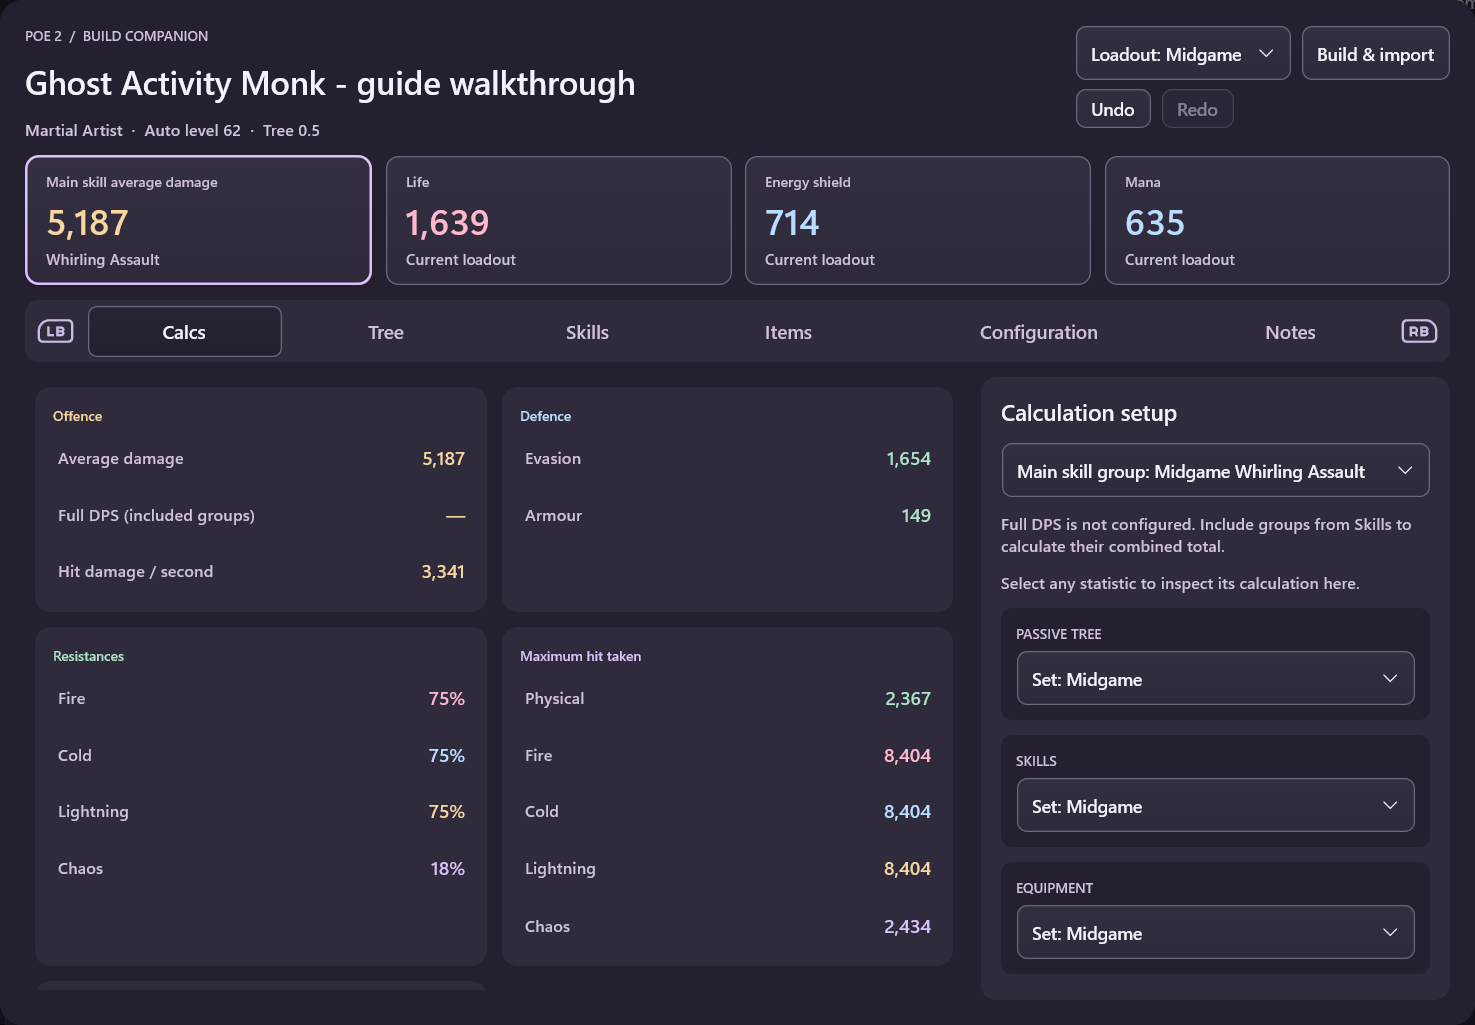
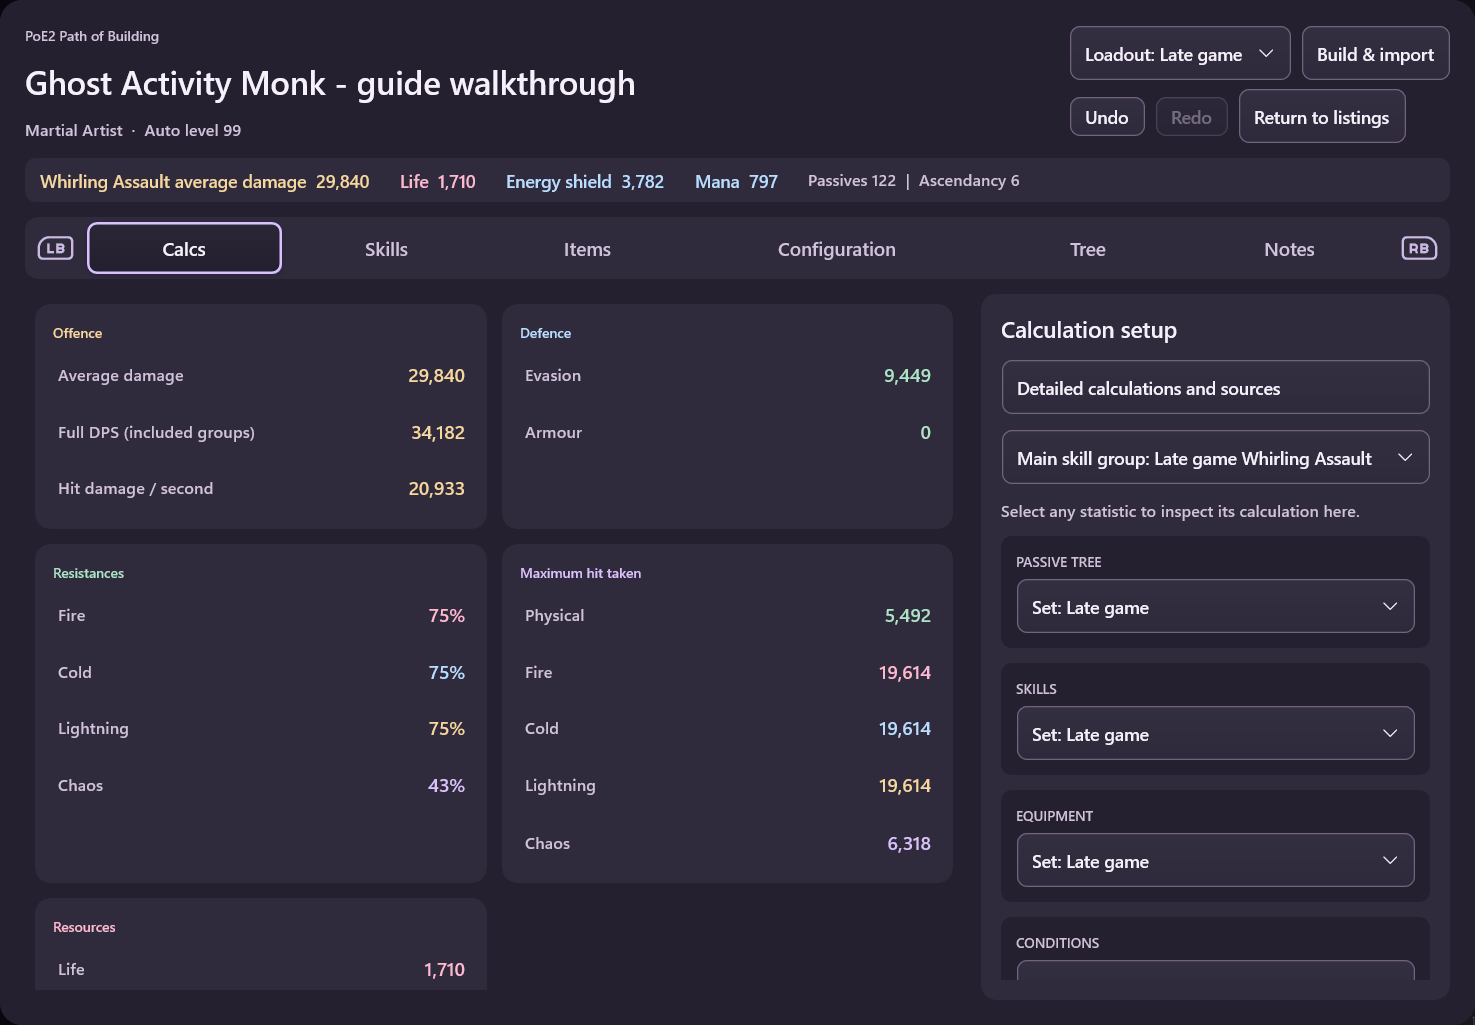
docs(pob): refresh workflow gallery and upstream credits

diff --git a/samples/PobCompanion/README.md b/samples/PobCompanion/README.md
@@ -4,12 +4,31 @@ Two controller-first widgets share one implementation and run pinned Path of Bui
 
 ## Screenshots
 
-Native WidgetRail captures in Velvet Dusk, using midgame and late-game setups from [Ghost Activity's Martial Artist guide](https://pobb.in/ttCJAV3WX9bn). These are workflow examples, not current-league build recommendations. The PNG files in [screenshots](screenshots/) are also available for the marketplace listing.
+Native WidgetRail captures from 17 October 2026 in Velvet Dusk. The PoE2 planning example uses the late-game setup from [Ghost Activity's Martial Artist guide](https://pobb.in/ttCJAV3WX9bn). These are workflow examples, not current-league build recommendations. See the [screenshot index](screenshots/README.md) for captions, capture details and marketplace reuse, and [credits](#credits) for the upstream projects and artwork.
 
+**Calculations and loadouts.** Inspect damage, defences and calculation context without leaving the build.
 ![Calculations and setup](screenshots/calculations.png)
+
+**Skill groups.** The main group is pinned first; its gems, support gems and Full DPS inclusion remain editable.
 ![Skill groups and gem editing](screenshots/skills.png)
+
+**Passive tree.** Inspect an allocated node, its modifiers and weapon-set membership before previewing a change.
 ![Passive tree and node details](screenshots/tree.png)
+
+**PoE1 Timeless Jewels.** Search seeds for a socket using PoB's modifier weights. This synthetic planning example demonstrates the finder, not a recommended character build.
+![PoE1 Timeless Jewel finder and scored seeds](screenshots/poe1-timeless.png)
+
+**Configuration.** Browse relevant settings and enable their upstream explanations.
 ![Configuration sections](screenshots/configuration.png)
+
+**Builds and import.** Website shortcuts sit beside the shared browser preference; pob.cool's controller limitation is stated before opening it.
+![Build import and browser preference](screenshots/import.png)
+
+**Compare while browsing.** The official listing stays beside PoB's calculated gains and losses. The equipment target is explicit; comparing does not equip or buy the item.
+![Trade listing beside its PoB comparison](screenshots/trade-comparison.png)
+
+**Rank a batch.** The shortlist identifies the target, weights, limit and order. Unsupported items stay visible in the skipped list. These historical listings and prices are examples, not purchase recommendations.
+![Ranked trade listings and explicit skipped-item reasons](screenshots/trade-ranking.png)
 
 ## Using a build
 
@@ -109,6 +128,8 @@ The page adapter observes only the declared trade-item JSON responses requested 
 
 General website links use a preference shared by both widgets: Windows' default browser, or a web session in a widget modal. Trade always uses the overlay so listings and comparisons stay together. The modal fills most of the widget without exceeding its bounds. Closing it returns to the build; **Return to website** reopens the retained trade session. Each widget has its own persistent website profile, so logins survive session disposal and overlay restart without sharing the Browser widget's cookies. Existing widget idle unloading also releases its web sessions. Account import through GGG OAuth remains unavailable without an approved application identity.
 
+Choose **Open websites in** beside the poe.ninja and pob.cool shortcuts in Build & import. pob.cool requires a mouse and keyboard. After copying a build code, return to **Paste build from clipboard**. The shared on-screen keyboard also has a Paste key, including for password entry; password text is masked by default.
+
 **Export to PoE2** uses upstream's `.build` serializer for the selected tree, skills and equipment, or exports each linked loadout to its own file. The default destination is Windows' Documents folder under `My Games/Path of Exile 2/BuildPlanner`; the destination is editable. Existing files are preserved. These files provide in-game recommendations rather than equipping items or allocating passives. PoE1 retains the ordinary XML and share-code exports.
 
 The six categorical color roles follow the selected WidgetRail theme; labels and geometry also convey meaning. The tree consumes the host's packaged-page theme projection, including high contrast. Remote websites receive no theme injection.
@@ -141,4 +162,12 @@ Use `--loadouts-only` with a linked-loadout fixture to check independent copies,
 
 The weekly/manual `pob-engine-candidates` workflow resolves an exact upstream revision (PoE1 stable and PoE2 beta by default), builds the pinned Lua runtime, and runs real-engine checks before producing a candidate package. Failed checks prevent packaging; structured results, logs and binlogs are retained for diagnosis. Candidate locks do not replace the repository lock or the installed engine. The workflow does not publish releases automatically: review the results, inspect both widgets, and promote a tested package deliberately. The bridge adapter is the compatibility boundary; game calculations remain upstream.
 
-Each package includes the applicable upstream PoB license, LuaJIT copyright and lua-utf8 license. Fixtures used during development are not bundled as sample builds. Path of Building Community and Path of Exile are separate projects; these widgets are not affiliated with their maintainers or Grinding Gear Games.
+## Credits
+
+- **Path of Building Community contributors**, building on the original Path of Building by **Openarl / David Gowor**: the [PoE1 engine](https://github.com/PathOfBuildingCommunity/PathOfBuilding) and [PoE2 engine](https://github.com/PathOfBuildingCommunity/PathOfBuilding-PoE2) supply calculations, game rules, modifier parsing, trade-query generation and tree-editing tools. Their source revisions are pinned in [engine-lock.json](engine-lock.json); each package retains the upstream license and third-party notices.
+- **Grinding Gear Games**: Path of Exile and Path of Exile 2, their game data and artwork, the official trade website, and the public Currency Exchange history used by PoB. Game artwork and website imagery in these screenshots are not original WidgetRail artwork and are not covered by WidgetRail's code license.
+- **Ghost Activity**: the [Martial Artist guide and public PoB build](https://pobb.in/ttCJAV3WX9bn) used for the PoE2 walkthrough and planning screenshots. The widget demonstrates the imported build; it does not claim authorship of the build or recommend its historical gear for the current league.
+- **LuaJIT**, by Mike Pall and contributors; **lua-utf8**, by Xavier Wang and contributors; and **zlib**, by Jean-loup Gailly and Mark Adler. Packages include `LuaJIT-COPYRIGHT`, `LuaUTF8-LICENSE`, and [zlib-LICENSE.txt](licenses/zlib-LICENSE.txt), alongside `PoB-LICENSE.md`.
+- **[poe.ninja](https://poe.ninja/), [pob.cool](https://pob.cool/) and [pobb.in](https://pobb.in/)** provide the independent build-browsing, browser-planning and sharing services linked from the widget. Their website interfaces and services remain their own.
+
+Fixtures used during development are not bundled as sample builds. WidgetRail's companion UI and adapters are separate from these projects; no affiliation or endorsement by their maintainers or Grinding Gear Games is implied.

diff --git a/samples/PobCompanion/screenshots/README.md b/samples/PobCompanion/screenshots/README.md
@@ -1,0 +1,28 @@
+# PoE widget screenshot index
+
+Captured from the native WidgetRail candidate on 17 October 2026 using Velvet Dusk at 125% Windows display scaling. Images contain the widget area rather than the surrounding desktop. These are real UI captures, not mockups or altered calculation results.
+
+The PoE2 planning build is the **Late game** loadout from [Ghost Activity's Martial Artist guide](https://pobb.in/ttCJAV3WX9bn), imported for the walkthrough. Its values reflect the pinned PoE2 beta and the saved configuration; they are not a current-league recommendation or a performance benchmark.
+
+| Image | Suggested caption |
+| --- | --- |
+| [calculations.png](calculations.png) | PoE2 damage, defences and loadout context calculated by Path of Building. |
+| [skills.png](skills.png) | Main skill pinned above other groups, with gem editing and Full DPS controls. |
+| [tree.png](tree.png) | Selected passive, upstream modifier descriptions and shared/weapon-set allocation controls. |
+| [poe1-timeless.png](poe1-timeless.png) | PoE1 Timeless Jewel seeds scored by selected modifier weights for a chosen socket. |
+| [configuration.png](configuration.png) | Configuration categories with optional explanations from PoB. |
+| [import.png](import.png) | Build library, import destinations, website shortcuts and browser preference. |
+| [trade-comparison.png](trade-comparison.png) | Official PoE2 listing beside calculated changes for the selected equipment slot; account header scrolled out of view. |
+| [trade-ranking.png](trade-ranking.png) | A batch shortlist using selected build weights, with unsupported-item reasons shown separately. |
+
+The trade examples use the same Martial Artist build and real historical Standard listings on GGG's official site. The captured batch evaluated 20 loaded candidates: eight were ranked and twelve were skipped because the pinned engine could not calculate their modifiers. The timing shown is one local run, not a general performance claim. **Strongest improvement** is selected, so the displayed prices do not affect the order. No item was purchased or equipped for these captures.
+
+The PoE1 **Jewel planning example** is a synthetic development fixture, separate from Ghost Activity's guide. It searches Lethal Pride seeds at Arsenal of Vengeance (socket 2491), with total Strength weighted at 1 and scoring not restricted to allocated nodes. Its 8,001 matching seeds and scores come from PoB's finder; the score is not total build DPS. The fixture is not a recommended or complete character build.
+
+## Reusing and refreshing captures
+
+These files can be used in the widget README and marketplace gallery. Keep the matching captions and [project/source credits](../README.md#credits). Path of Exile artwork and the official website belong to Grinding Gear Games; the calculation and editing functionality comes from Path of Building Community. Do not describe these screenshots as original game artwork or imply endorsement.
+
+For website captures, scroll the account/header area out of view before taking the screenshot. Inspect the final pixels for the signed-in username, private messages, account menus, browser history and unrelated desktop content. Do not commit a capture while verification or sign-in is showing. Capture settled comparisons/results and label historical prices as examples rather than purchase recommendations.
+
+Refresh the images when the UI changes. Preserve actual values and labels; do not paint over controls, replace numbers or fabricate listings to make a screenshot look more favourable.
